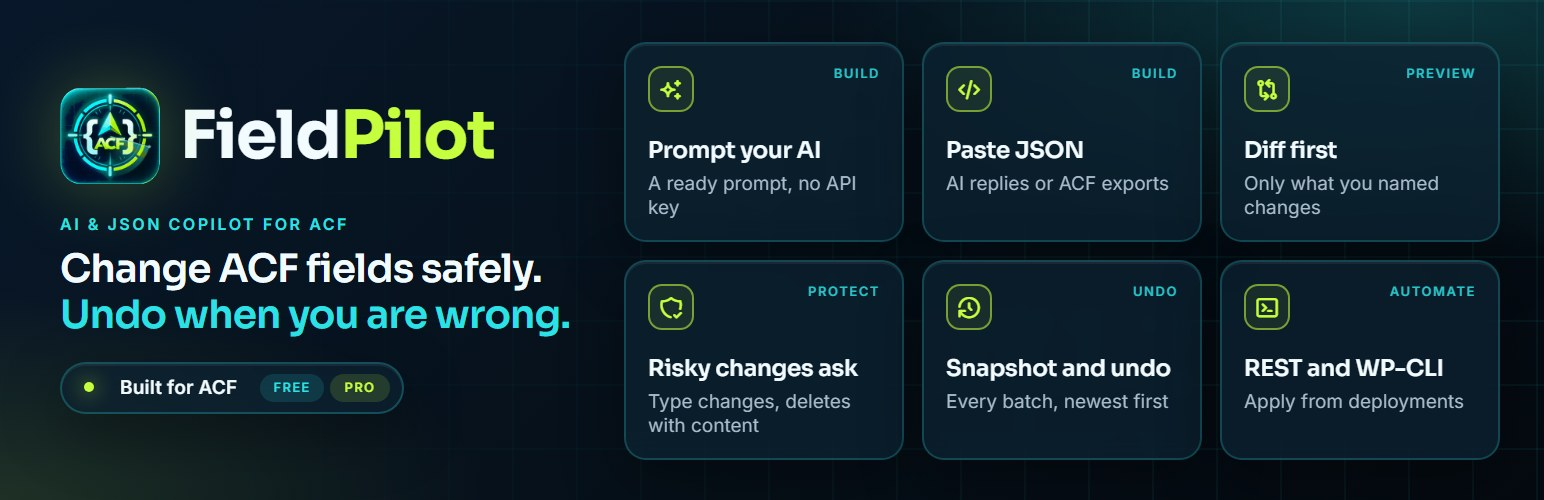
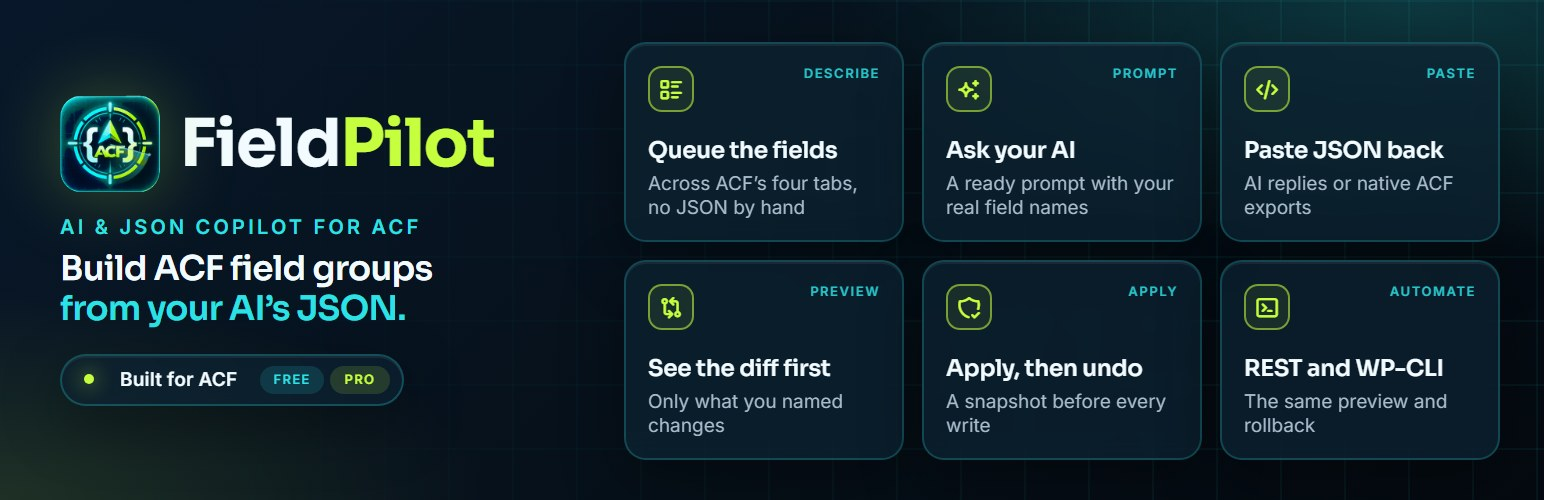
Lead with what FieldPilot does: build ACF field groups from your AI's JSON
Banner, social preview, README hero and task table, readme short description and the video thumbnail now open with the product, with preview and rollback as the safety around it. The official name casing, AI & JSON Copilot for ACF, is used throughout.

diff --git a/docs/brand/banner.html b/docs/brand/banner.html
@@ -9,11 +9,11 @@
 	.hero { flex: 0 0 262px; }
 	.brand { display: flex; align-items: center; gap: 10px; }
 	.word { font-size: 33px; }
-	.eyebrow { font-size: 8px; margin-top: 14px; }
+	.eyebrow { font-size: 10px; margin-top: 10px; }
 	.badge { position: static; margin-top: 12px; font-size: 9.5px; padding: 5px 6px 5px 11px; gap: 7px; }
 	.badge .dot { width: 5px; height: 5px; margin-right: 6px; }
 	.badge .seg { font-size: 6.5px; padding: 3px 7px; }
-	.headline { font-size: 19.5px; margin-top: 7px; }
+	.headline { font-size: 17px; margin-top: 6px; }
 	.ticks { gap: 11px; font-size: 10px; margin-top: 12px; }
 	.grid { flex: 1; display: grid; grid-template-columns: repeat(3, minmax(0, 1fr)); gap: 9px; }
 	.card { border-radius: 11px; padding: 11px 11px 12px; height: 100px; }
@@ -30,8 +30,8 @@
 			<img class="mark" src="icon.png" width="50" height="50" alt="">
 			<div class="word">Field<span>Pilot</span></div>
 		</div>
-		<div class="eyebrow">AI &amp; JSON copilot for ACF</div>
-		<div class="headline">Change ACF fields safely.<br><em>Undo when you are wrong.</em></div>
+		<div class="eyebrow">AI &amp; JSON Copilot for ACF</div>
+		<div class="headline">Build ACF field groups<br><em>from your AI’s JSON.</em></div>
 		<div class="badge"><i class="dot"></i>Built for ACF<span class="seg free">Free</span><span class="seg pro">PRO</span></div>
 	</div>
 	<div class="grid" id="grid"></div>

diff --git a/docs/brand/social.html b/docs/brand/social.html
@@ -8,10 +8,10 @@
 	.stage { width: 1280px; height: 640px; padding: 54px 64px 0; }
 	.brand { display: flex; align-items: center; gap: 20px; }
 	.word { font-size: 76px; }
-	.eyebrow { font-size: 15px; margin-top: 24px; }
+	.eyebrow { font-size: 19px; margin-top: 20px; }
 	.badge { right: 64px; top: 76px; font-size: 16px; padding: 10px 12px 10px 18px; gap: 12px; }
 	.badge .seg { font-size: 11px; padding: 5px 11px; }
-	.headline { font-size: 44px; margin-top: 10px; }
+	.headline { font-size: 40px; margin-top: 10px; }
 	.grid { display: grid; grid-template-columns: repeat(3, 1fr); gap: 16px; margin-top: 36px; }
 	.card { border-radius: 16px; padding: 18px 20px; height: 138px; }
 	.card .chip { width: 38px; height: 38px; border-radius: 10px; font-size: 21px; }
@@ -30,8 +30,8 @@
 		<img class="mark" src="icon.png" width="84" height="84" alt="">
 		<div class="word">Field<span>Pilot</span></div>
 	</div>
-	<div class="eyebrow">AI &amp; JSON copilot for ACF</div>
-	<div class="headline">Change ACF fields safely. <em>Undo when you are wrong.</em></div>
+	<div class="eyebrow">AI &amp; JSON Copilot for ACF</div>
+	<div class="headline">Build ACF field groups <em>from your AI’s JSON.</em></div>
 	<div class="grid" id="grid"></div>
 	<div class="foot">
 		<div class="ticks">

diff --git a/docs/brand/features.js b/docs/brand/features.js
@@ -1,11 +1,11 @@
 // Feature cards shared by banner.html and social.html.
 const FIELDPILOT_FEATURES = [
-	[ 'ti-sparkles', 'Build', 'Prompt your AI', 'A ready prompt, no API key' ],
-	[ 'ti-code', 'Build', 'Paste JSON', 'AI replies or ACF exports' ],
-	[ 'ti-git-compare', 'Preview', 'Diff first', 'Only what you named changes' ],
-	[ 'ti-shield-check', 'Protect', 'Risky changes ask', 'Type changes, deletes with content' ],
-	[ 'ti-history', 'Undo', 'Snapshot and undo', 'Every batch, newest first' ],
-	[ 'ti-terminal-2', 'Automate', 'REST and WP-CLI', 'Apply from deployments' ],
+	[ 'ti-list-details', 'Describe', 'Queue the fields', 'Across ACF’s four tabs, no JSON by hand' ],
+	[ 'ti-sparkles', 'Prompt', 'Ask your AI', 'A ready prompt with your real field names' ],
+	[ 'ti-code', 'Paste', 'Paste JSON back', 'AI replies or native ACF exports' ],
+	[ 'ti-git-compare', 'Preview', 'See the diff first', 'Only what you named changes' ],
+	[ 'ti-shield-check', 'Apply', 'Apply, then undo', 'A snapshot before every write' ],
+	[ 'ti-terminal-2', 'Automate', 'REST and WP-CLI', 'The same preview and rollback' ],
 ];
 
 document.getElementById( 'grid' ).innerHTML = FIELDPILOT_FEATURES.map(

diff --git a/README.md b/README.md
@@ -1,14 +1,15 @@
 <p align="center">
-  <img src=".wordpress-org/banner-1544x500.jpg" alt="FieldPilot: AI and JSON copilot for ACF. Change ACF fields safely. Undo when you are wrong." width="100%">
+  <img src=".wordpress-org/banner-1544x500.jpg" alt="FieldPilot - AI & JSON Copilot for ACF. Build ACF field groups from your AI's JSON." width="100%">
 </p>
 
 <h1 align="center">
-  <img src="docs/fieldpilot-logo.gif" alt="" width="56" align="center"> FieldPilot: AI and JSON copilot for ACF
+  <img src="docs/fieldpilot-logo.gif" alt="" width="56" align="center"> FieldPilot - AI &amp; JSON Copilot for ACF
 </h1>
 
 <p align="center">
-  <b>Change ACF field groups with JSON, from your AI or by hand, and never lose a field.</b><br>
-  Preview the exact diff, apply only what you reviewed, and roll back when you are wrong.<br>
+  <b>Build and change ACF field groups with your AI and JSON, in minutes instead of clicks.</b><br>
+  Queue the fields you want, copy a prompt that knows your real field names, paste the JSON reply back,<br>
+  preview the exact diff and apply. Every change is snapshotted, so you can undo it any time.<br>
   Built for ACF free and PRO. No API keys, no external services, no tracking.
 </p>
 
@@ -46,12 +47,14 @@ Click a task to jump straight to how it works.
 
 | I want to... | FieldPilot gives you | |
 | --- | --- | --- |
-| Add a field to a repeater without clicking through ACF | A JSON patch aimed at **one target**, with everything else left alone | [Show me](#see-every-change-before-anything-is-written) |
 | Let my AI write the fields, without giving it my site | A **ready prompt** with your real field names; paste the JSON reply back | [Show me](#describe-fields-get-a-ready-prompt) |
+| Build a whole field group from a description | **Create** a group and its fields from one JSON payload | [Show me](#start-from-any-field-group-or-make-one) |
+| Add a field to a repeater without clicking through ACF | A JSON patch aimed at **one target**, with everything else left alone | [Show me](#see-every-change-before-anything-is-written) |
 | Make one field required and change nothing else | **Partial updates**: only the settings you name change | [Show me](#see-every-change-before-anything-is-written) |
+| Import a native ACF export, or an AI reply with code fences | Sloppy JSON is **normalised**, not rejected | [Show me](#see-every-change-before-anything-is-written) |
 | Know what a patch will do before it runs | A **diff preview**, old value to new, nothing hidden | [Show me](#see-every-change-before-anything-is-written) |
 | Change a field's type without losing content | **Conflicts stop and ask**, with three clear choices | [Show me](#risky-changes-stop-and-ask) |
-| Undo a change that broke the site | A **snapshot before every write** and one-click rollback | [Show me](#every-change-logged-ready-to-roll-back) |
+| Undo a change | A **snapshot before every write** and one-click rollback | [Show me](#every-change-logged-ready-to-roll-back) |
 | See which groups I can edit from here | The **Dashboard** labels database, PHP and acf-json groups | [Show me](#know-what-is-safe-to-edit) |
 | Apply patches from a deployment | **REST and WP-CLI**, with the same preview and rollback | [Show me](#for-developers) |
 
